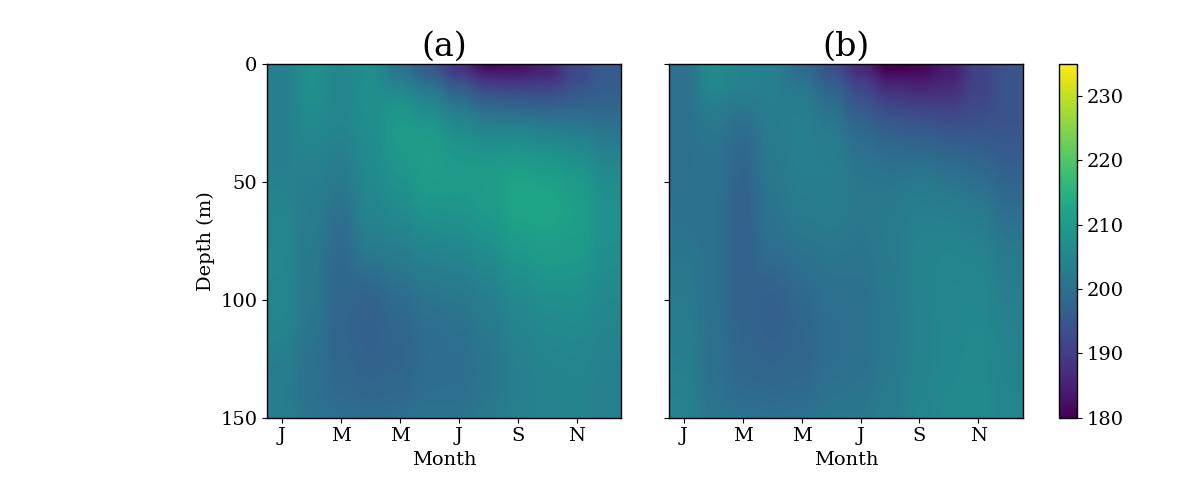
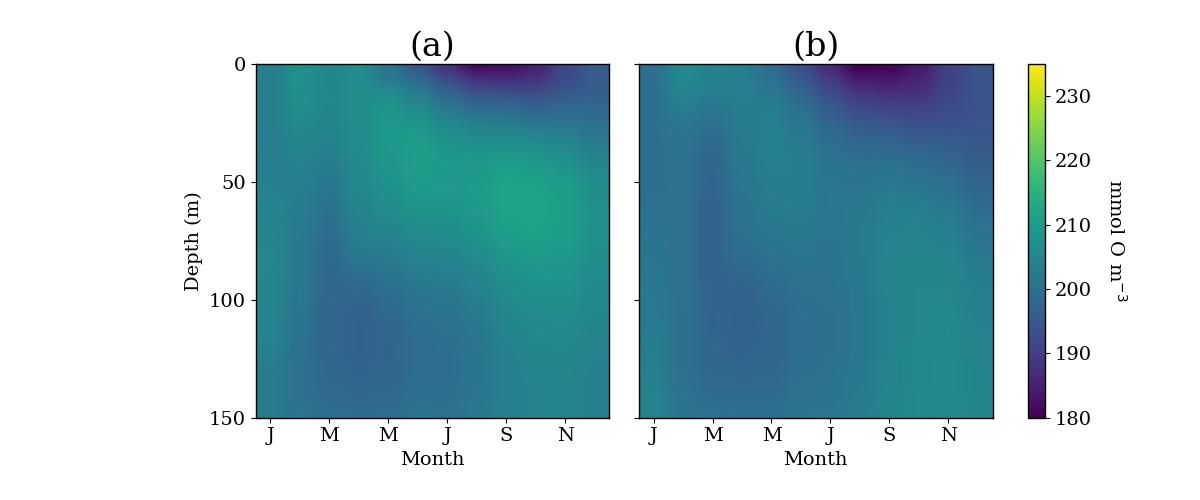
added unit label to axis on BFM1

diff --git a/plots/functions.py b/plots/functions.py
@@ -89,7 +89,9 @@ def plot_bfm1(check,comp,model_name):
     plt.xlabel('Month',fontsize=14)
     plt.xticks([0.5,2.5,4.5,6.5,8.5,10.5], ['J','M','M','J','S','N'])
     plt.yticks([0,50,100,150],[])
-    plt.colorbar(orientation='vertical')
+    cbar = plt.colorbar(orientation='vertical')
+    cbar.ax.get_yaxis().labelpad = 25
+    cbar.ax.set_ylabel('mmol O m$^{-3}$', fontsize=14, rotation=270)
     plt.clim(clow,chigh)
     force_aspect(ax,aspect=1)
 

diff --git a/main_pombfm1d.py b/main_pombfm1d.py
@@ -46,7 +46,7 @@ elif pom_bfm_parameters.ihotst == 1:
     # get_rst()
     pass
 
-REDUCE_BFM = True
+REDUCE_BFM = False
 if not pom_bfm_parameters.pom_only:
     # Initialize BFM
     d3state,d3stateb = initialize_bfm_in_pom(vertical_grid)
